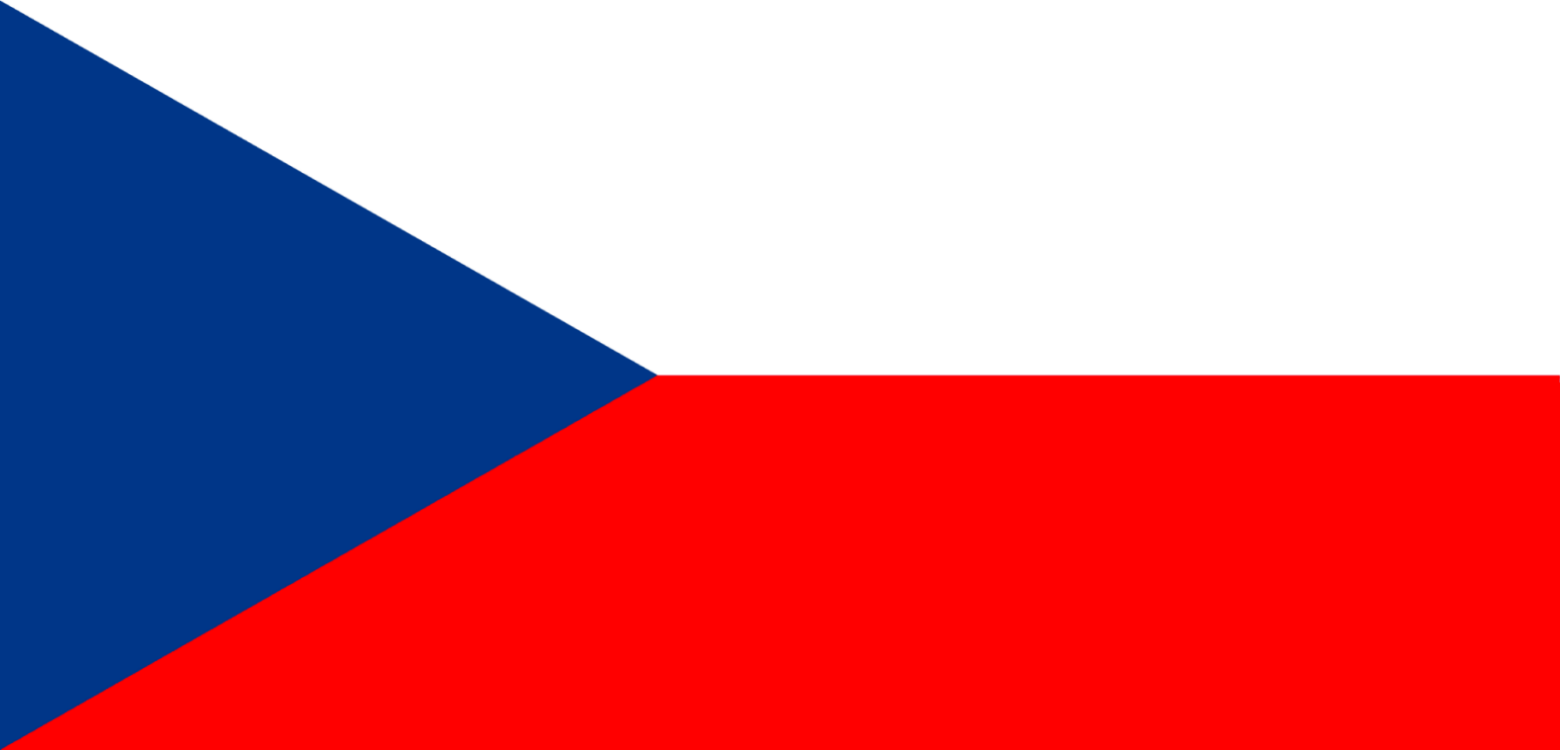
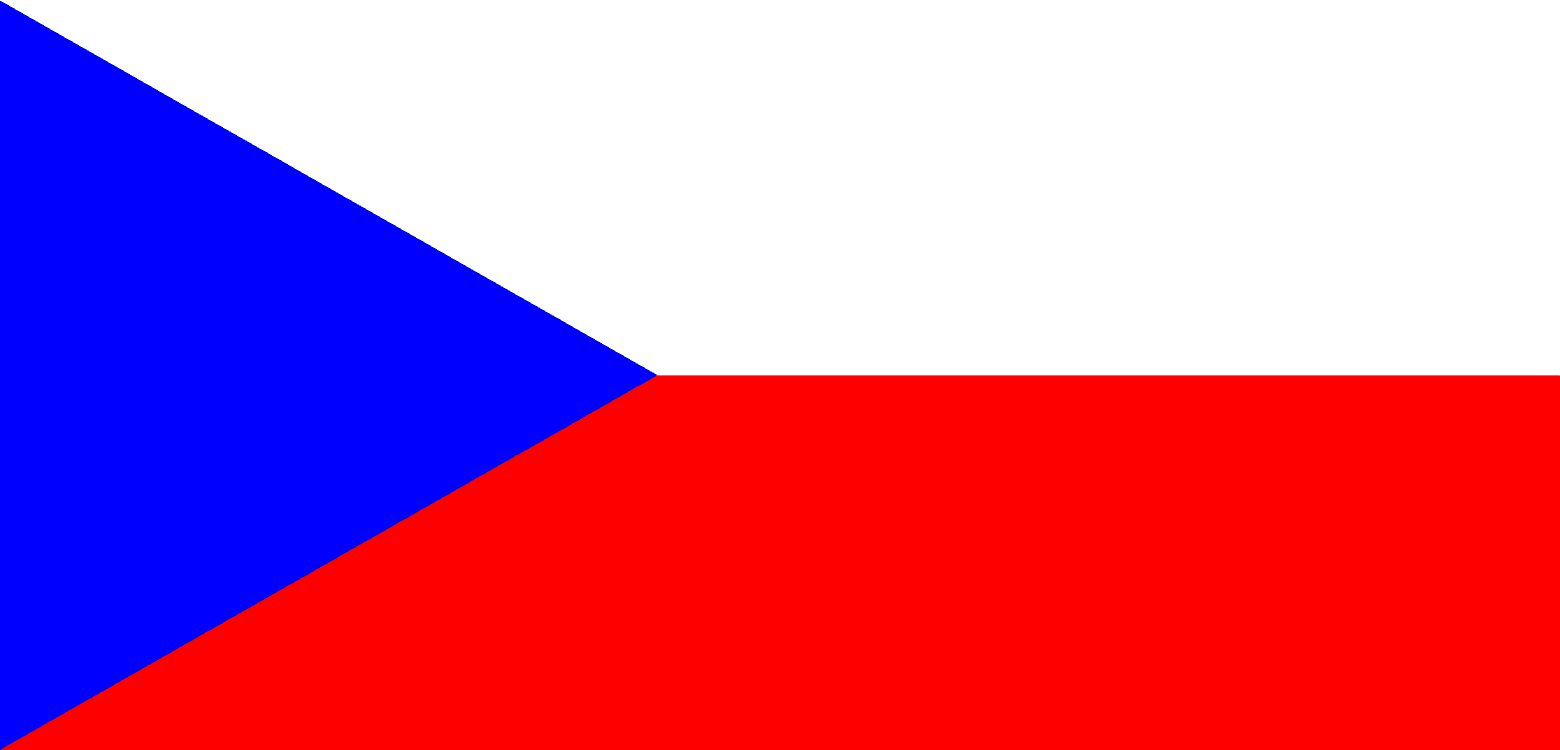
Обновил лого, изменил порядок контактов в зависимоти от языка

Changed region(s): [[0.0, 0.0, 0.4308, 1.0]]

diff --git a/seiten/kontakte.html b/seiten/kontakte.html
@@ -18,13 +18,15 @@
   <div class="Основа" style="text-align: center;">
     Sie können mich auf folgenden Plattformen kontaktieren:
     <br>
-    Telegram: <a href="https://t.me/Demetrius_Iskra/">https://t.me/Demetrius_Iskra/</a>
+    Instagram: <a href="https://www.instagram.com/demetrius.iskra/">https://www.instagram.com/demetrius.iskra/</a>
     <br>
-    VKontakte: <a href="https://vk.com/demetrius_iskra/">https://vk.com/demetrius_iskra/</a>
+    Telegram: <a href="https://t.me/Demetrius_Iskra/">https://t.me/Demetrius_Iskra/</a>
     <br>
     Discord: <a href="https://discord.com/users/414440023069425665/">https://discord.com/users/414440023069425665/</a>
     <br>
-    Instagram: <a href="https://www.instagram.com/demetrius.iskra/">https://www.instagram.com/demetrius.iskra/</a>
+    VKontakte: <a href="https://vk.com/demetrius_iskra/">https://vk.com/demetrius_iskra/</a>
+    <!-- <br>
+    WeChat: <a href="#">#</a> -->
   </div>
 </body>
 </html>

diff --git a/stranky/kontakt.html b/stranky/kontakt.html
@@ -18,13 +18,15 @@
   <div class="Основа" style="text-align: center;">
     Kontaktujte mě na následujících platformách:
     <br>
-    Telegram: <a href="https://t.me/Demetrius_Iskra/">https://t.me/Demetrius_Iskra/</a>
+    Instagram: <a href="https://www.instagram.com/demetrius.iskra/">https://www.instagram.com/demetrius.iskra/</a>
     <br>
-    VKontakte: <a href="https://vk.com/demetrius_iskra/">https://vk.com/demetrius_iskra/</a>
+    Telegram: <a href="https://t.me/Demetrius_Iskra/">https://t.me/Demetrius_Iskra/</a>
     <br>
     Discord: <a href="https://discord.com/users/414440023069425665/">https://discord.com/users/414440023069425665/</a>
     <br>
-    Instagram: <a href="https://www.instagram.com/demetrius.iskra/">https://www.instagram.com/demetrius.iskra/</a>
+    VKontakte: <a href="https://vk.com/demetrius_iskra/">https://vk.com/demetrius_iskra/</a>
+    <!-- <br>
+    WeChat: <a href="#">#</a> -->
   </div>
 </body>
 </html>

diff --git a/页/联系信息.html b/页/联系信息.html
@@ -17,14 +17,17 @@
   </div>
   <div class="Основа" style="text-align: center;">
     您可以在以下平台与我联系：
+    <!-- <br>
+    微信：<a href="#">#</a> -->
     <br>
     Telegram：<a href="https://t.me/Demetrius_Iskra/">https://t.me/Demetrius_Iskra/</a>
     <br>
-    VKontakte：<a href="https://vk.com/demetrius_iskra/">https://vk.com/demetrius_iskra/</a>
+    Instagram：<a href="https://www.instagram.com/demetrius.iskra/">https://www.instagram.com/demetrius.iskra/</a>
     <br>
     Discord：<a href="https://discord.com/users/414440023069425665/">https://discord.com/users/414440023069425665/</a>
     <br>
-    Instagram：<a href="https://www.instagram.com/demetrius.iskra/">https://www.instagram.com/demetrius.iskra/</a>
+    VKontakte：<a href="https://vk.com/demetrius_iskra/">https://vk.com/demetrius_iskra/</a>
+
   </div>
 </body>
 </html>

diff --git a/страницы/контакт.html b/страницы/контакт.html
@@ -25,6 +25,8 @@
     Дискорд: <a href="https://discord.com/users/414440023069425665/">https://discord.com/users/414440023069425665/</a>
     <br>
     Инстаграм: <a href="https://www.instagram.com/demetrius.iskra/">https://www.instagram.com/demetrius.iskra/</a>
+    <!-- <br>
+    WeChat: <a href="#">#</a> -->
   </div>
 </body>
 </html>
